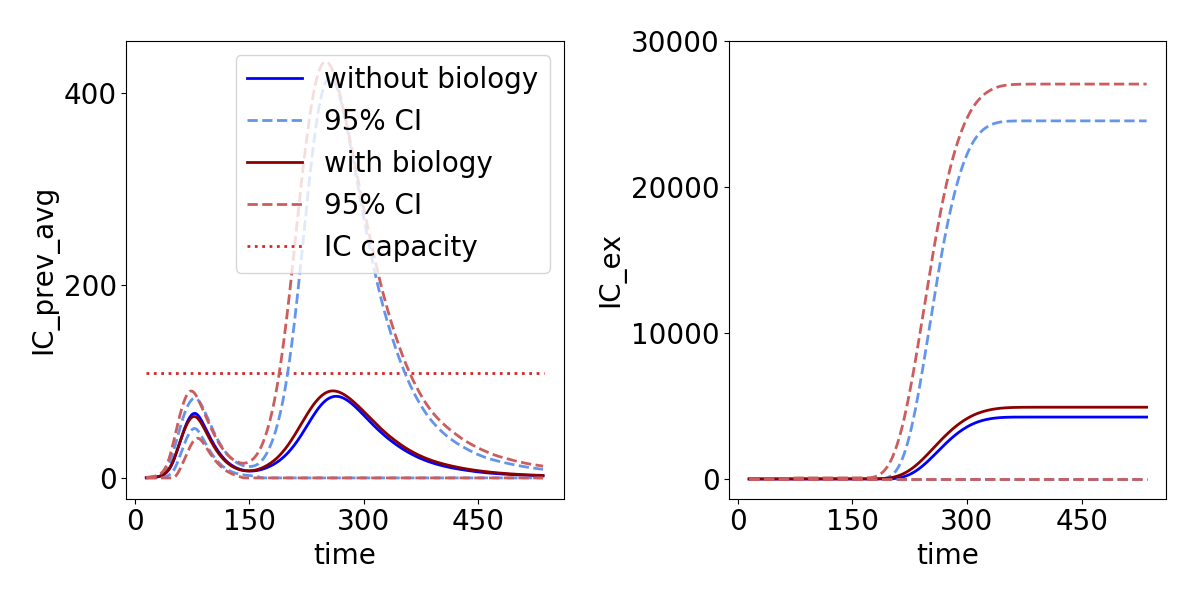
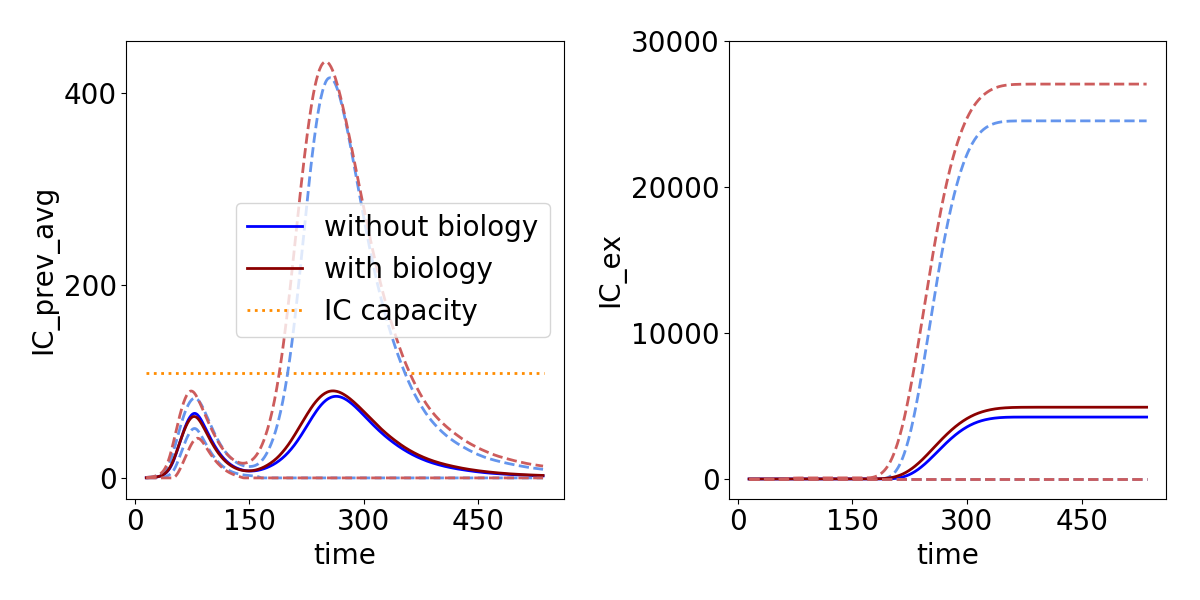
change color for IC_capacity and fix legend

Changed region(s): [[0.2158, 0.09, 0.4625, 0.57]]

diff --git a/EasyVVUQ/mean_var_post_proc_corona.py b/EasyVVUQ/mean_var_post_proc_corona.py
@@ -109,14 +109,14 @@ f = plt.figure('QoI',figsize=[12,6])
 ax_p = f.add_subplot(121, xlabel='time', ylabel='IC_prev_avg')
 # without biology
 ax_p.plot(t[15:-15], mean_IC_prev_avg[15:-15], lw=2, color='blue', label='without biology')
-ax_p.plot(t[15:-15], CI_low_IC_prev_avg[15:-15], linestyle='--', lw=2, color='cornflowerblue', label='95% CI')
+ax_p.plot(t[15:-15], CI_low_IC_prev_avg[15:-15], linestyle='--', lw=2, color='cornflowerblue')
 ax_p.plot(t[15:-15], CI_up_IC_prev_avg[15:-15], linestyle='--', lw=2, color='cornflowerblue')
 # with biology
 ax_p.plot(t[15:-15], mean_IC_prev_avg_bio[15:-15], lw=2, color='darkred', label='with biology')
-ax_p.plot(t[15:-15], CI_low_IC_prev_avg_bio[15:-15], linestyle='--', lw=2, color='indianred', label='95% CI')
+ax_p.plot(t[15:-15], CI_low_IC_prev_avg_bio[15:-15], linestyle='--', lw=2, color='indianred')
 ax_p.plot(t[15:-15], CI_up_IC_prev_avg_bio[15:-15], linestyle='--', lw=2, color='indianred')
 # general settings
-ax_p.hlines(y=IC_capacity, xmin=15, xmax=L-15, linestyle=':', lw=2, color='tab:red', label='IC capacity')
+ax_p.hlines(y=IC_capacity, xmin=15, xmax=L-15, linestyle=':', lw=2, color='darkorange', label='IC capacity')
 ax_p.set_xticks([0, 150, 300, 450])
 ax_p.set_yticks([0, 200, 400])
 ax_p.legend(loc='best')
